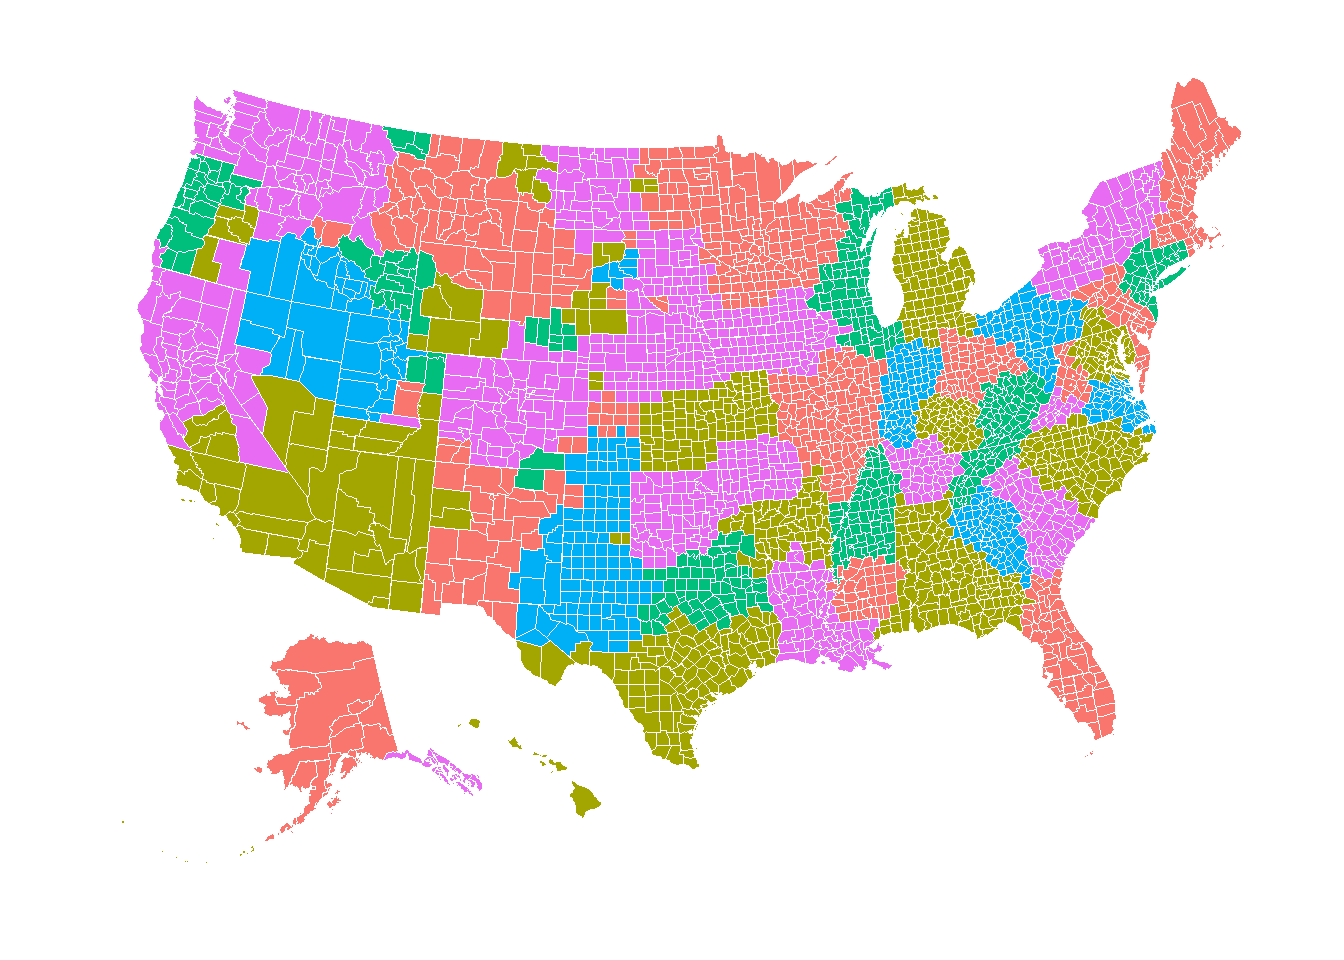
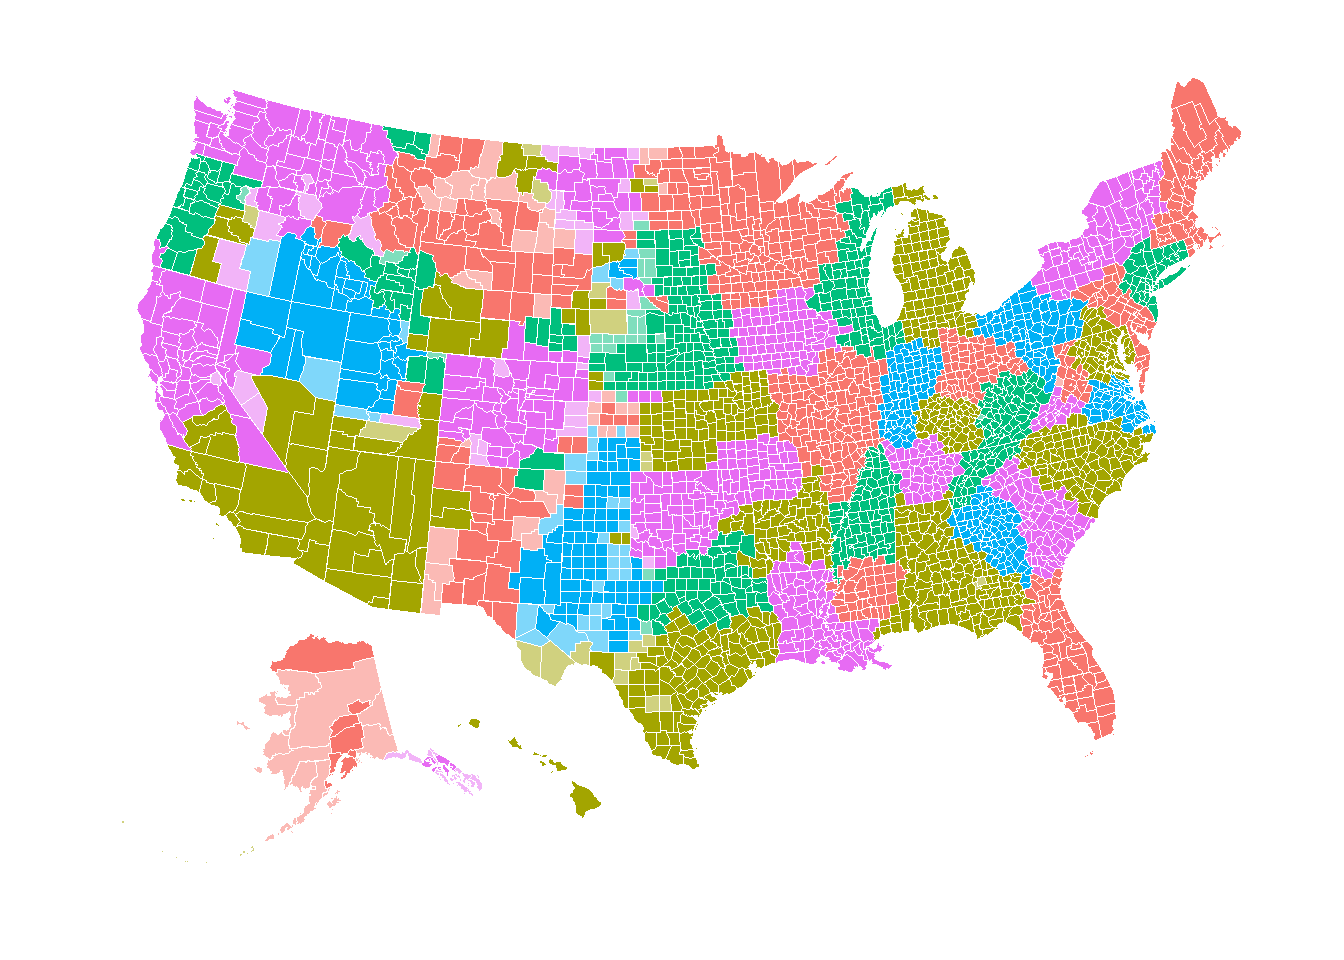
Update to model and results

diff --git a/U.S. Labor Market Model.py b/U.S. Labor Market Model.py
@@ -28,6 +28,9 @@ df = df.rename(columns={'fips':'fips', 'NAMELSAD':'County', 'INTPTLAT':'Latitude
 df.Latitude = df.Latitude.astype(float)
 df.Longitude = df.Longitude.astype(float)
 
+# Add in Wade Hampton County AK which is not present in the Tiger Files
+df.loc[len(df)+1]=['02270','Wade Hampton County', 62.0826229, -165.428791]
+
 # Read in the Gephi output
 nodes = pd.read_csv('U.S. Labor Market [Nodes].csv', low_memory=False,  converters={'fips': str})
 nodes = nodes[['fips','Modularity Class']]

diff --git a/README.md b/README.md
@@ -30,6 +30,6 @@ These results were quickly examined in [R](https://raw.githubusercontent.com/mik
 ### Classification Model
 Since not every county is classified I developed a model that determined the classification as a function of latitude and longitude.  This model used 5 classification algorithms and then used a majority rule to come up with the final classification.  I used this classification model to fill in the blanks.  
 
-I also decided to name the area after the city with the largest population in the area.  The model's output was explored using [R](https://raw.githubusercontent.com/mikeasilva/us-labor-market-network/master/U.S.%20Labor%20Market%20Model%20Map.Rmd) which can be seen below:
+I also decided to name the area after the city with the largest population in the area.  The model's output was explored using [R](https://raw.githubusercontent.com/mikeasilva/us-labor-market-network/master/U.S.%20Labor%20Market%20Model%20Map.Rmd) which can be seen below (Note: I have lightened the counties that were estimated using the classification model):
 
 ![U.S. Labor Market Map](us-labor-market-map.png)
